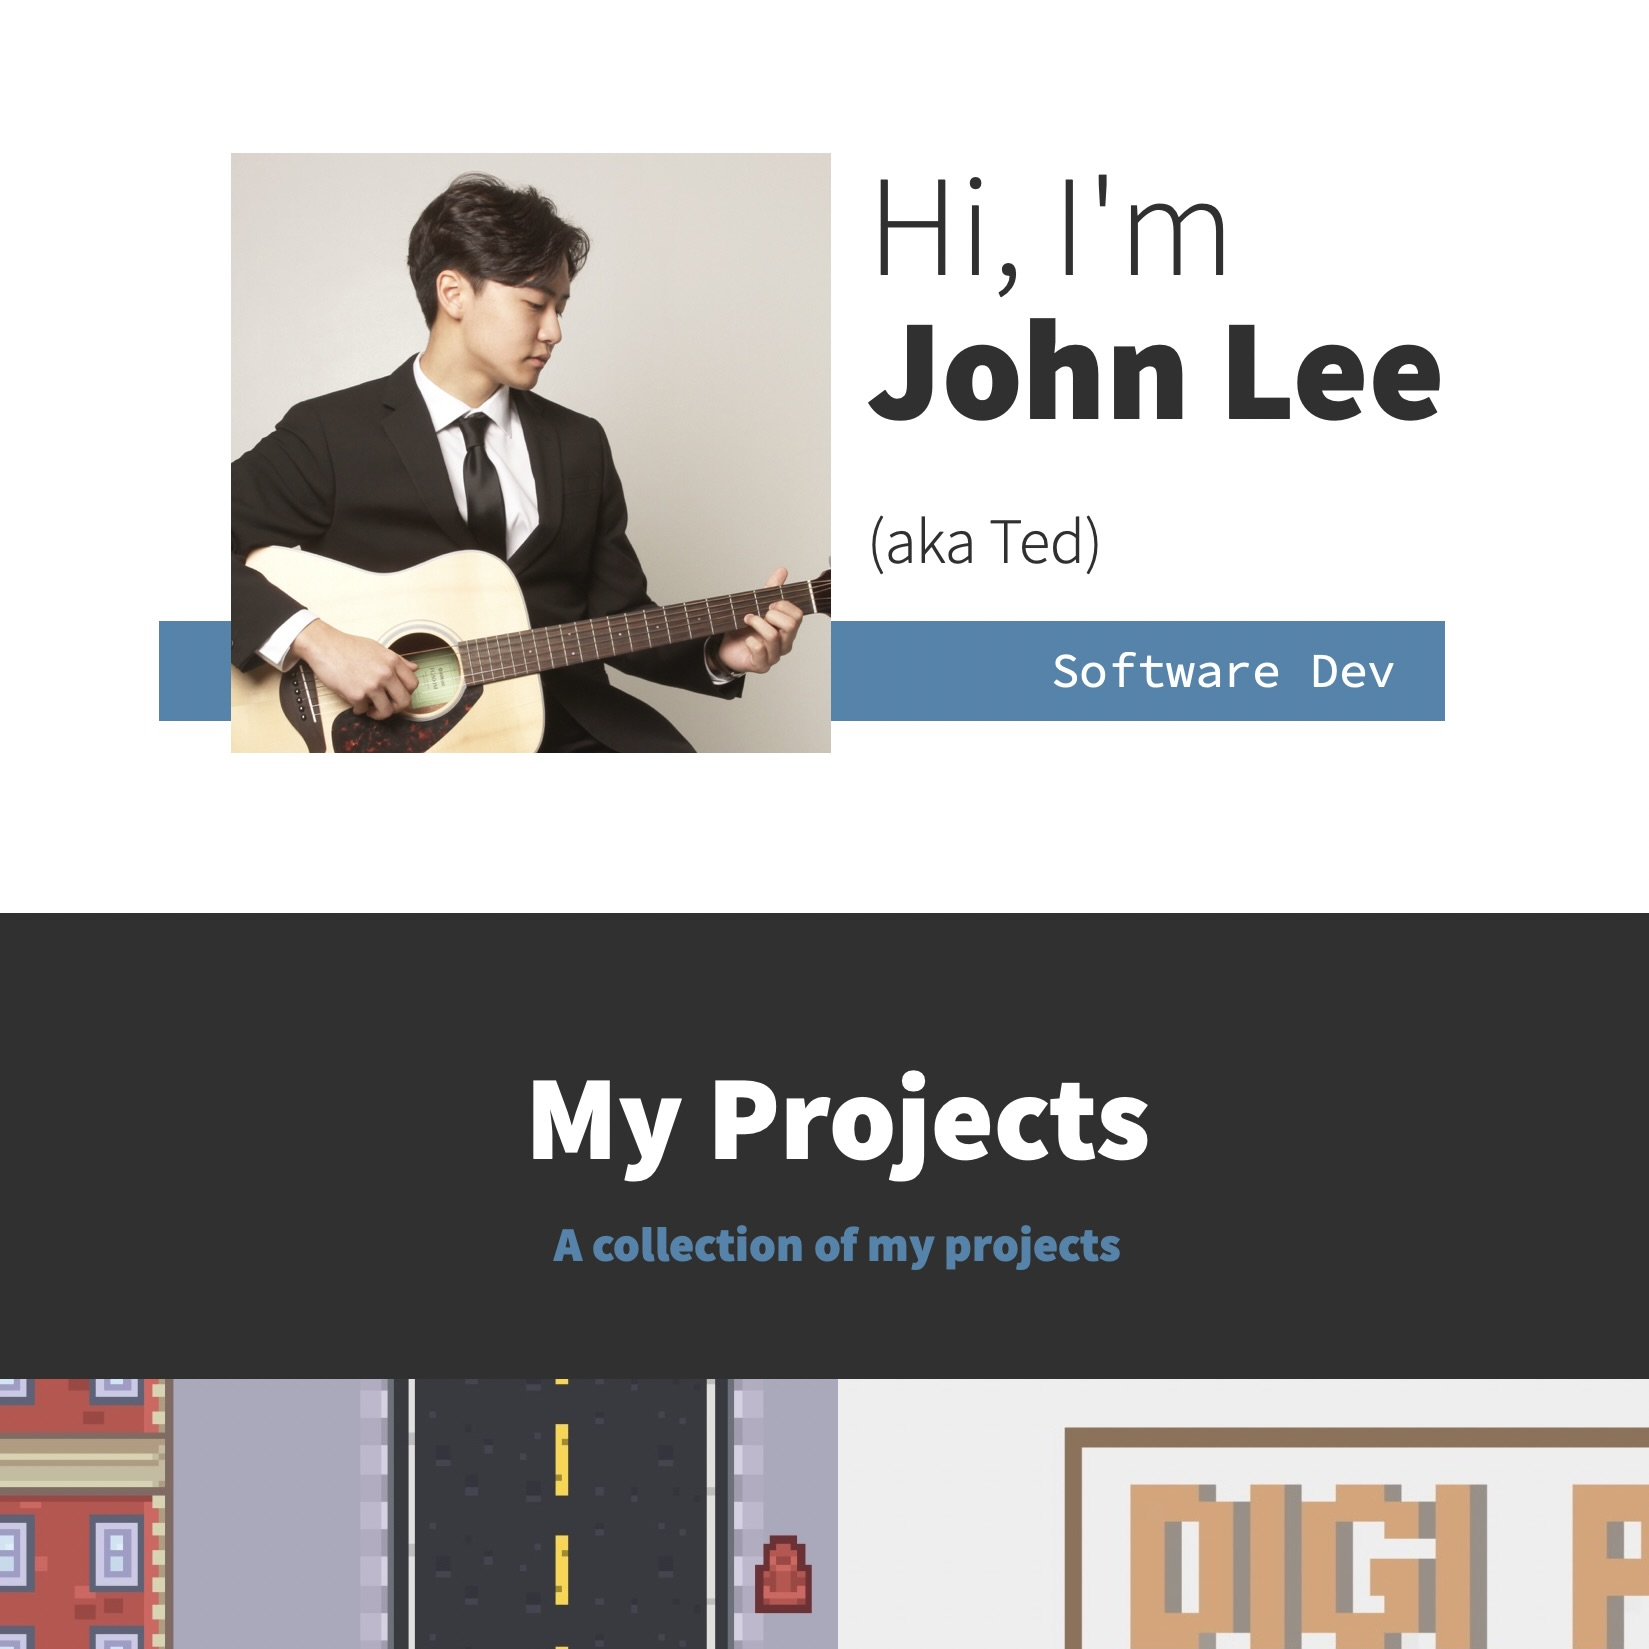
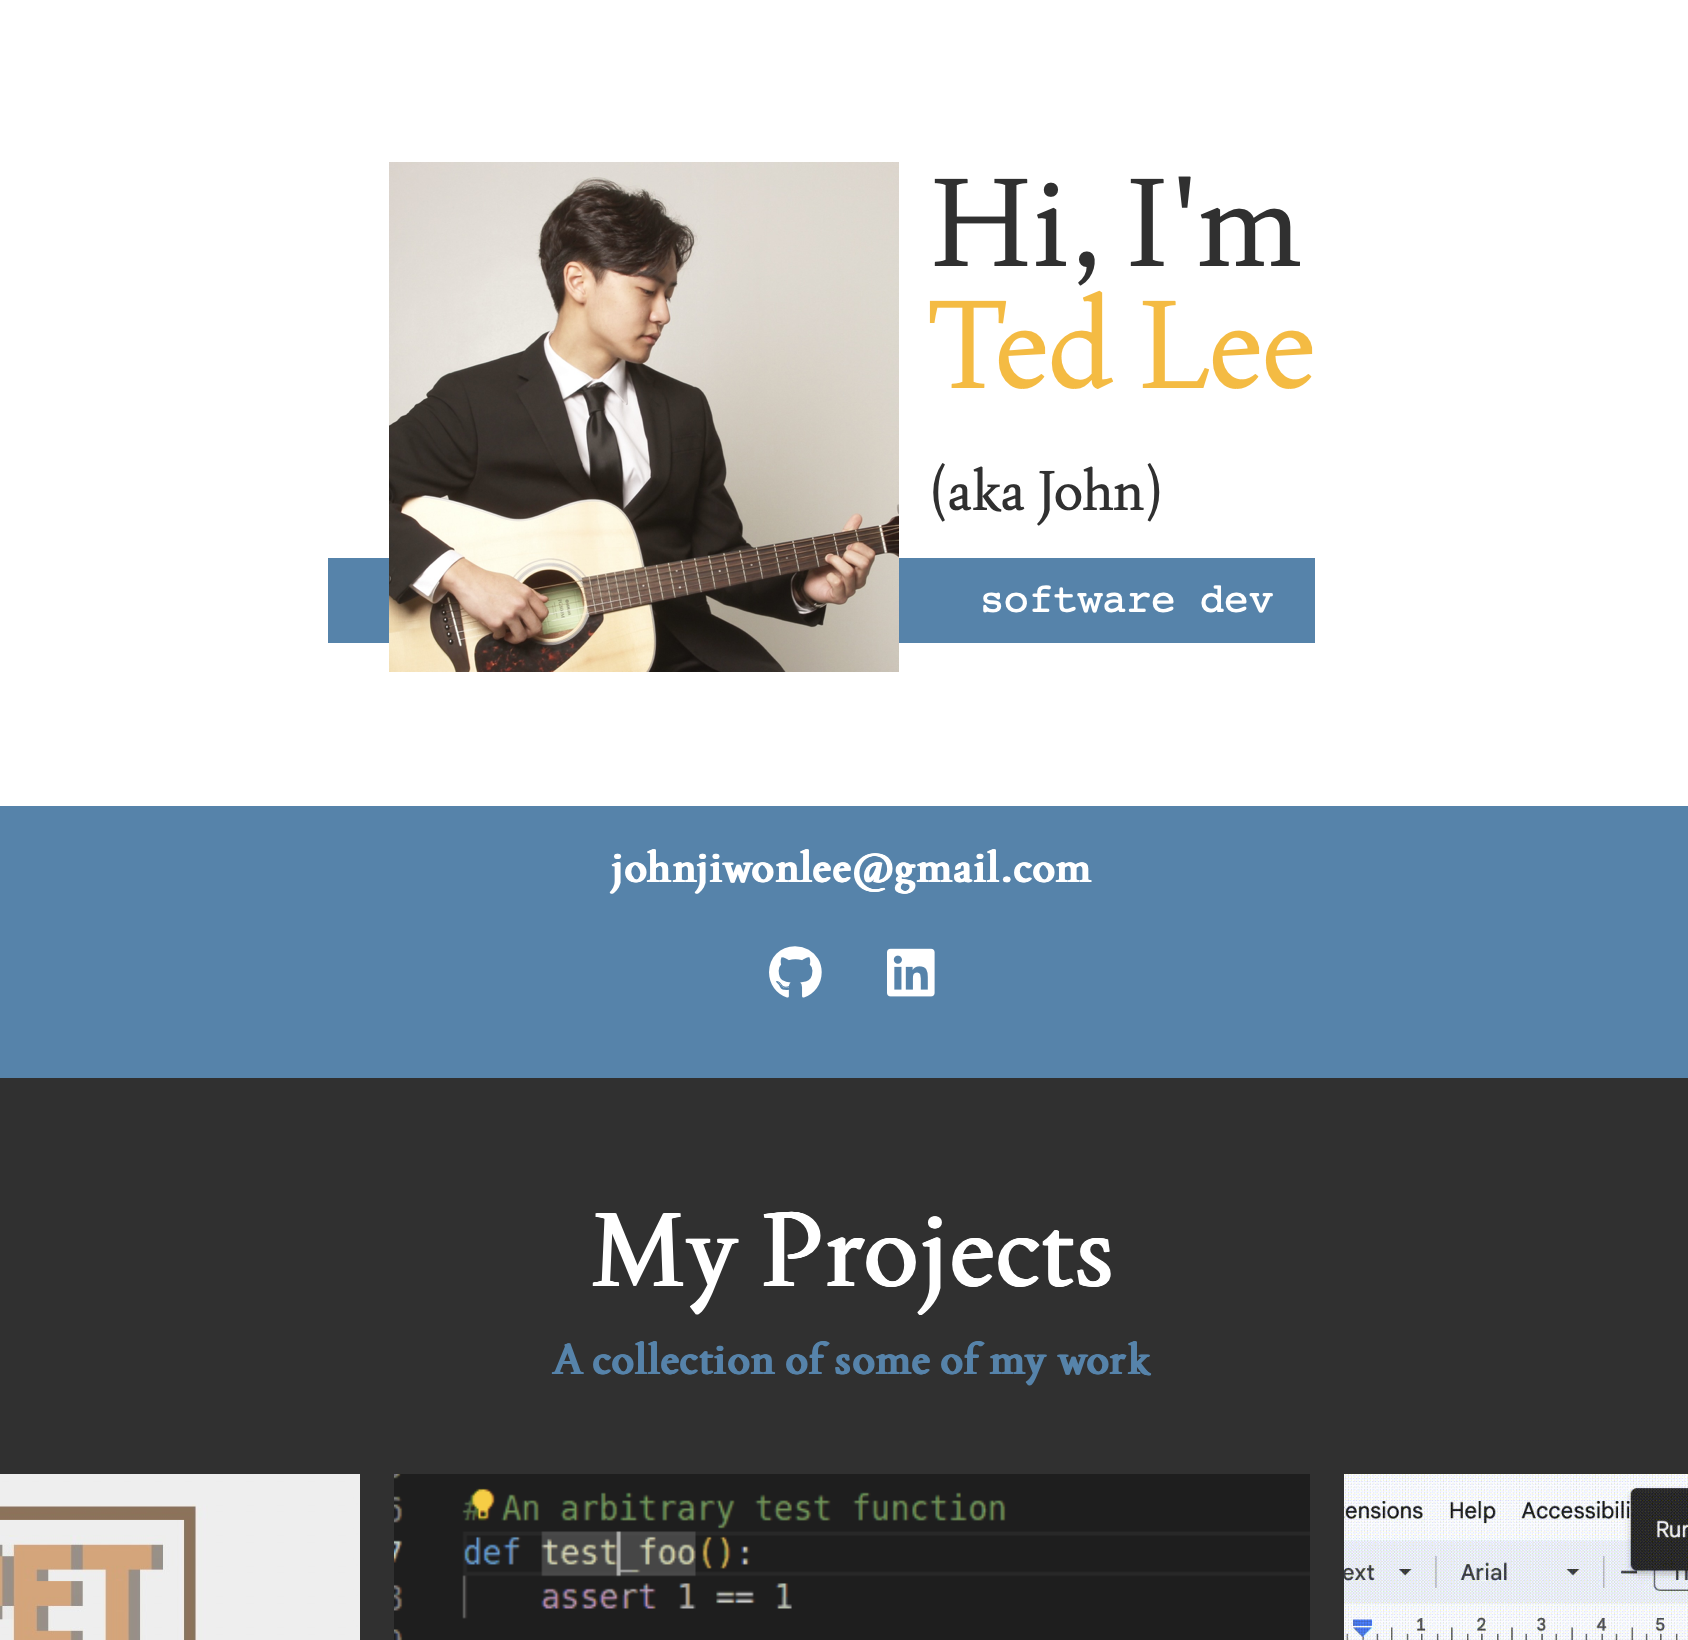
Updated Website October 2023
Updated website to include new projects and updated links.

diff --git a/index.html b/index.html
@@ -28,7 +28,6 @@
                     <li class="nav_item"><a href="#home" class="nav_link">Home</a></li>
                     <li class="nav_item"><a href="#projects" class="nav_link">My Projects</a></li>
                     <li class="nav_item"><a href="#about" class="nav_link">About Me</a></li>
-                    <li class="nav_item"><a href="JohnLee.pdf" class="nav_link">Resume</a></li>
                 </ul>
             </nav>
         </header>
@@ -36,7 +35,7 @@
         <!-- Intro -->
         <section class="intro" id="home">
             <h1 class="section_title section_title--intro">
-                Hi, I'm <strong>John Lee</strong> <small>(aka Ted)</small>
+                Hi, I'm <strong>Ted Lee</strong> <small>(aka John)</small>
             </h1>
             <p class="section_subtitle section_subtitle--intro">software dev</p>
             <img src="img/Ted.jpeg" alt="" class="intro_img">
@@ -45,18 +44,13 @@
         
         <!-- Contact -->
         <section class="contact" id="contact">
-            <a href="mailto:johnj.lee2016@gmail.com" class="email--link">johnj.lee2016@gmail.com</a>
+            <a href="mailto:johnjiwonlee@gmail.com" class="email--link">johnjiwonlee@gmail.com</a>
             <ul class="socials">
-
-                <li class="socials_item"><a class="socials--link" href="JohnLee.pdf">
-                        <i class="fa-solid fa-file-lines"></i>
-                    </a>
-                </li>
                 <li class="socials_item"><a class="socials--link" href="https://github.com/tedlee21">
                         <i class="fa-brands fa-github"></i>
                     </a>
                 </li>
-                <li class="socials_item"><a class="socials--link" href="https://www.linkedin.com/in/john-“ted”-lee-7758b6205/">
+                <li class="socials_item"><a class="socials--link" href="https://www.linkedin.com/in/johntedlee/">
                         <i class="fa-brands fa-linkedin"></i>
                     </a>
                 </li>
@@ -68,40 +62,59 @@
         <!-- My Projects  -->
         <section class="my_projects" id="projects">
             <h2 class="section_title section_title--projects">My Projects</h2>
-            <p class="section_subtitle section_subtitle--projects">A collection of my work</p>
+            <p class="section_subtitle section_subtitle--projects">A collection of some of my work</p>
             <div class="portfolio">
                 <!-- Portfolion item 1 -->
-                <a href="https://github.com/tedlee21/Retro-RPG" class="portfolio_item item1">
-                    <p><strong>Retro RPG Game</strong></p>
-                    <p>Created in Unity, C# scripts and design patterns bring this game to life. <br> 
-                        Observer Pattern allows interactions, collisions, and scene switching. 2D Freeform Lighting and 
-                        Player HUD is currently in the works.
-                    </p>
-                </a>
-                
-                <!-- Portfolion item 2 -->
-                <a href="https://github.com/tedlee21/DigitalPet" class="portfolio_item item2">
-                    <p><strong>Digital Therapy Pet</strong></p>
-                    <p>A Desktop App for depression and anxiety, coded in Java.<br>
-                        An interactive GUI made using Swing lets you play with, pet, feed, and talk to your pet.
+                <a href="https://github.com/tedlee21/TheraPet" class="portfolio_item item1">
+                    <p><strong>TheraPet</strong></p>
+                    <p>A Desktop therapy tool and game, coded in Java.<br>
+                        An interactive GUI made using Swing allows users to play with, pet, feed, and talk to your digital pet.
                         JUnit tested, and JSON save files enabled, this app is ready for play.
                     </p>
                 </a>
 
+                <!-- Portfolion item 2 -->
+                <a href="https://github.com/tedlee21/Pytest-Wizard" class="portfolio_item item2">
+                    <p><strong>Pytest Wizard</strong></p>
+                    <p>A VS Code Extension I developed during my internship at WISI America.<br>
+                        Implemented in Typescript, this extension optimized the test development process of our team by 1500%, 
+                        by allowing users to run Pytests with the click of a button on the VS Code status bar. 
+                    </p>
+                </a>
+
                 <!-- Portfolion item 3 -->
-                <a href="https://github.com/tedlee21/Photo-Editor" class="portfolio_item item3">
-                    <p><strong>Image Editing Software</strong></p>
-                    <p>This collection of C++ programs lets you modify PNGs to the pixel using pointer maniuplation. <br>
-                        A PNG is turned into a Tree Data Structure and node manipulation lets you apply filters, create effects, 
-                        or flip your image.
+                <a href="https://github.com/tedlee21/Autofonter" class="portfolio_item item3">
+                    <p><strong>Autofonter for Google Docs</strong></p>
+                    <p> This Google Docs extension automatically formats your active document to a desired style.<br>
+                        Implemented in Javascript, this extension allows users to select a font, font size, and line spacing, 
+                        and apply it to their entire document with the click of a button. Otherwise, it will scan your document
+                        for the most common font and apply it to the entire document.
                     </p>
                 </a>
 
                 <!-- Portfolion item 4 -->
-                <a href="https://github.com/tedlee21/Portfolio-Website" class="portfolio_item item4">
+                <a href="https://github.com/tedlee21/PNG-Editor" class="portfolio_item item4">
+                    <p><strong>PNG Editor</strong></p>
+                    <p>This collection of C++ programs lets you modify PNGs down to the pixel using pointer maniuplation. <br>
+                        A PNG is turned into a Tree Data Structure and node manipulation lets you apply filters, create effects, 
+                        or flip your image. Operations are realized through Depth First Search.
+                    </p>
+                </a>
+
+                <!-- Portfolion item 5 -->
+                <a href="https://github.com/tedlee21/portfolio-site" class="portfolio_item item5">
                     <p><strong>Portfolio Website</strong></p>
                     <p>This site you're on right now! Self taught HTML, CSS and JavaScript has brought it to life,
-                        complete with socials, a resume, and the interactive project descriptions you are currently reading.
+                        complete with socials and the interactive project descriptions you are currently reading.
+                    </p>
+                </a>
+
+                <!-- Portfolion item 6 -->
+                <a href="https://github.com/tedlee21/Retro-RPG" class="portfolio_item item6">
+                    <p><strong>Retro RPG Game</strong></p>
+                    <p>Created in Unity, C# scripts and design patterns bring this game to life. <br> 
+                        Observer Pattern allows interactions, collisions, and scene switching. 2D Freeform Lighting and 
+                        Player HUD is currently in the works. (Currently a private repository for development!)
                     </p>
                 </a>
             </div>
@@ -114,9 +127,12 @@
             <h2 class="section_title section_title--about">About the Dev</h2>
             <p class="section_subtitle section_subtitle--about">Creative, Outgoing, Driven</p>
             <div class="about_me--body">
-                <p>Like I said, I'm John Lee. But my friends call me Ted (it's a long story).</p>
-                <p>What isn't inconsistant is my love and passion for programming.</p>
-                <p>I'm a 2nd Year CS Student at UBC, and my hobbies include game design, guitar, and working out.</p>
+                <p>I'm Ted Lee. (Some people know me as John though!)</p>
+                <p>What's consistant is my love and passion for programming.</p>
+                <p>I'm a 3rd Year CS Student at UBC, and my hobbies include game design, guitar, and working out.</p>
+                <p>A lot of my interests outside of school lie in the arts, and I believe my artistic side provides me with 
+                    a taste for perfectionism, giving me an eye for aesthetics and contributing to my dedication to producing 
+                    readable, maintainable, and reliable code always.</p>
             </div>
 
             <img src="img/testimg.png" alt="" class="about_me_img">
@@ -129,18 +145,14 @@
 
         <!-- Footer -->
         <footer class="footer">
-            <a href="mailto:johnj.lee2016@gmail.com" class="email--link">johnj.lee2016@gmail.com</a>
+            <a href="mailto:johnjiwonlee@gmail.com" class="email--link">johnjiwonlee@gmail.com</a>
             <ul class="socials">
 
-                <li class="socials_item"><a class="socials--link" href="JohnLee.pdf">
-                        <i class="fa-solid fa-file-lines"></i>
-                    </a>
-                </li>
                 <li class="socials_item"><a class="socials--link" href="https://github.com/tedlee21">
                         <i class="fa-brands fa-github"></i>
                     </a>
                 </li>
-                <li class="socials_item"><a class="socials--link" href="https://www.linkedin.com/in/john-“ted”-lee-7758b6205/">
+                <li class="socials_item"><a class="socials--link" href="https://www.linkedin.com/in/johntedlee/">
                         <i class="fa-brands fa-linkedin"></i>
                     </a>
                 </li>

diff --git a/css/style.css b/css/style.css
@@ -349,6 +349,7 @@ header {
     font-size: 2rem;
     margin: 0 0.6em;
 }
+
 /* My Projects */
 
 .my_projects {
@@ -364,9 +365,9 @@ header {
 }
 
 .portfolio {
-      
     display: grid;
-    grid-template-columns: repeat(auto-fit, minmax(min(100%/1, max(500px, 100%/2)), 1fr));
+    grid-template-columns: repeat(3, minmax(0, 1fr));
+    gap: 20px;
     align-items: center;
 }
 
@@ -375,55 +376,78 @@ header {
 }
 
 .portfolio_item {
-    /* padding-bottom: 30%; */
-    aspect-ratio: 1;
-    transition: 1s;
-    display: grid;
-    justify-content: center;
-    /* align-items: center; */
-    background-position: center;
+    position: relative;
+    overflow: hidden;
+    aspect-ratio: 1; /* Fixed aspect ratio */
+    height: 1; /* Ensures the height is determined by the aspect ratio */
+}
+
+.portfolio_item::before {
+    content: "";
+    position: absolute;
+    top: 0;
+    left: 0;
+    width: 100%;
+    height: 100%;
     background-size: cover;
+    background-position: center;
+    background-repeat: no-repeat;
+    transition: 1s;
 }
 
-.item1 {
-    background-image: url("RPG.jpeg");
-}
-
-.item2 {
+.item1::before {
     background-image: url("PetGame.jpeg");
 }
 
-.item3 {
+.item2::before {
+    background-image: url("Tester.gif");
+}
+
+.item3::before {
+    background-image: url("Autofonter.gif");
+}
+
+.item4::before {
     background-image: url("Photo.jpeg");
 }
 
-.item4 {
+.item5::before {
     background-image: url("Site.jpeg");
 }
 
-.portfolio_item strong {
-    /* font-family: var(--ff-secondary); */
-    font-size: 2rem;
+.item6::before {
+    background-image: url("RPG.gif");
 }
 
-.portfolio_item p{
+.portfolio_item strong {
+    font-size: var(--fs-h3);
+    font-weight: var(--fw-bold);
+}
+
+.portfolio_item p {
+    color: #fff;
+}
+
+.portfolio_item strong,
+.portfolio_item p {
+    padding-top: 2%;
+    padding-left: 2%;
+    padding-right: 2%;
     opacity: 0;
     transform: scale(0);
     transition: 1s;
-    font-size: 1.5rem;
-    color: #fff;
-    padding: 2em;
+    text-align: center;
 }
 
-.portfolio_item:hover {
+.portfolio_item:hover::before {
     box-shadow: 0 0 0 1000px rgba(26, 25, 25, 0.9) inset;
 }
 
-.portfolio_item:hover p{
+.portfolio_item:hover strong,
+.portfolio_item:hover p {
     opacity: 1;
     transform: scale(1);
 }
-
 
 /* Footer */
 
